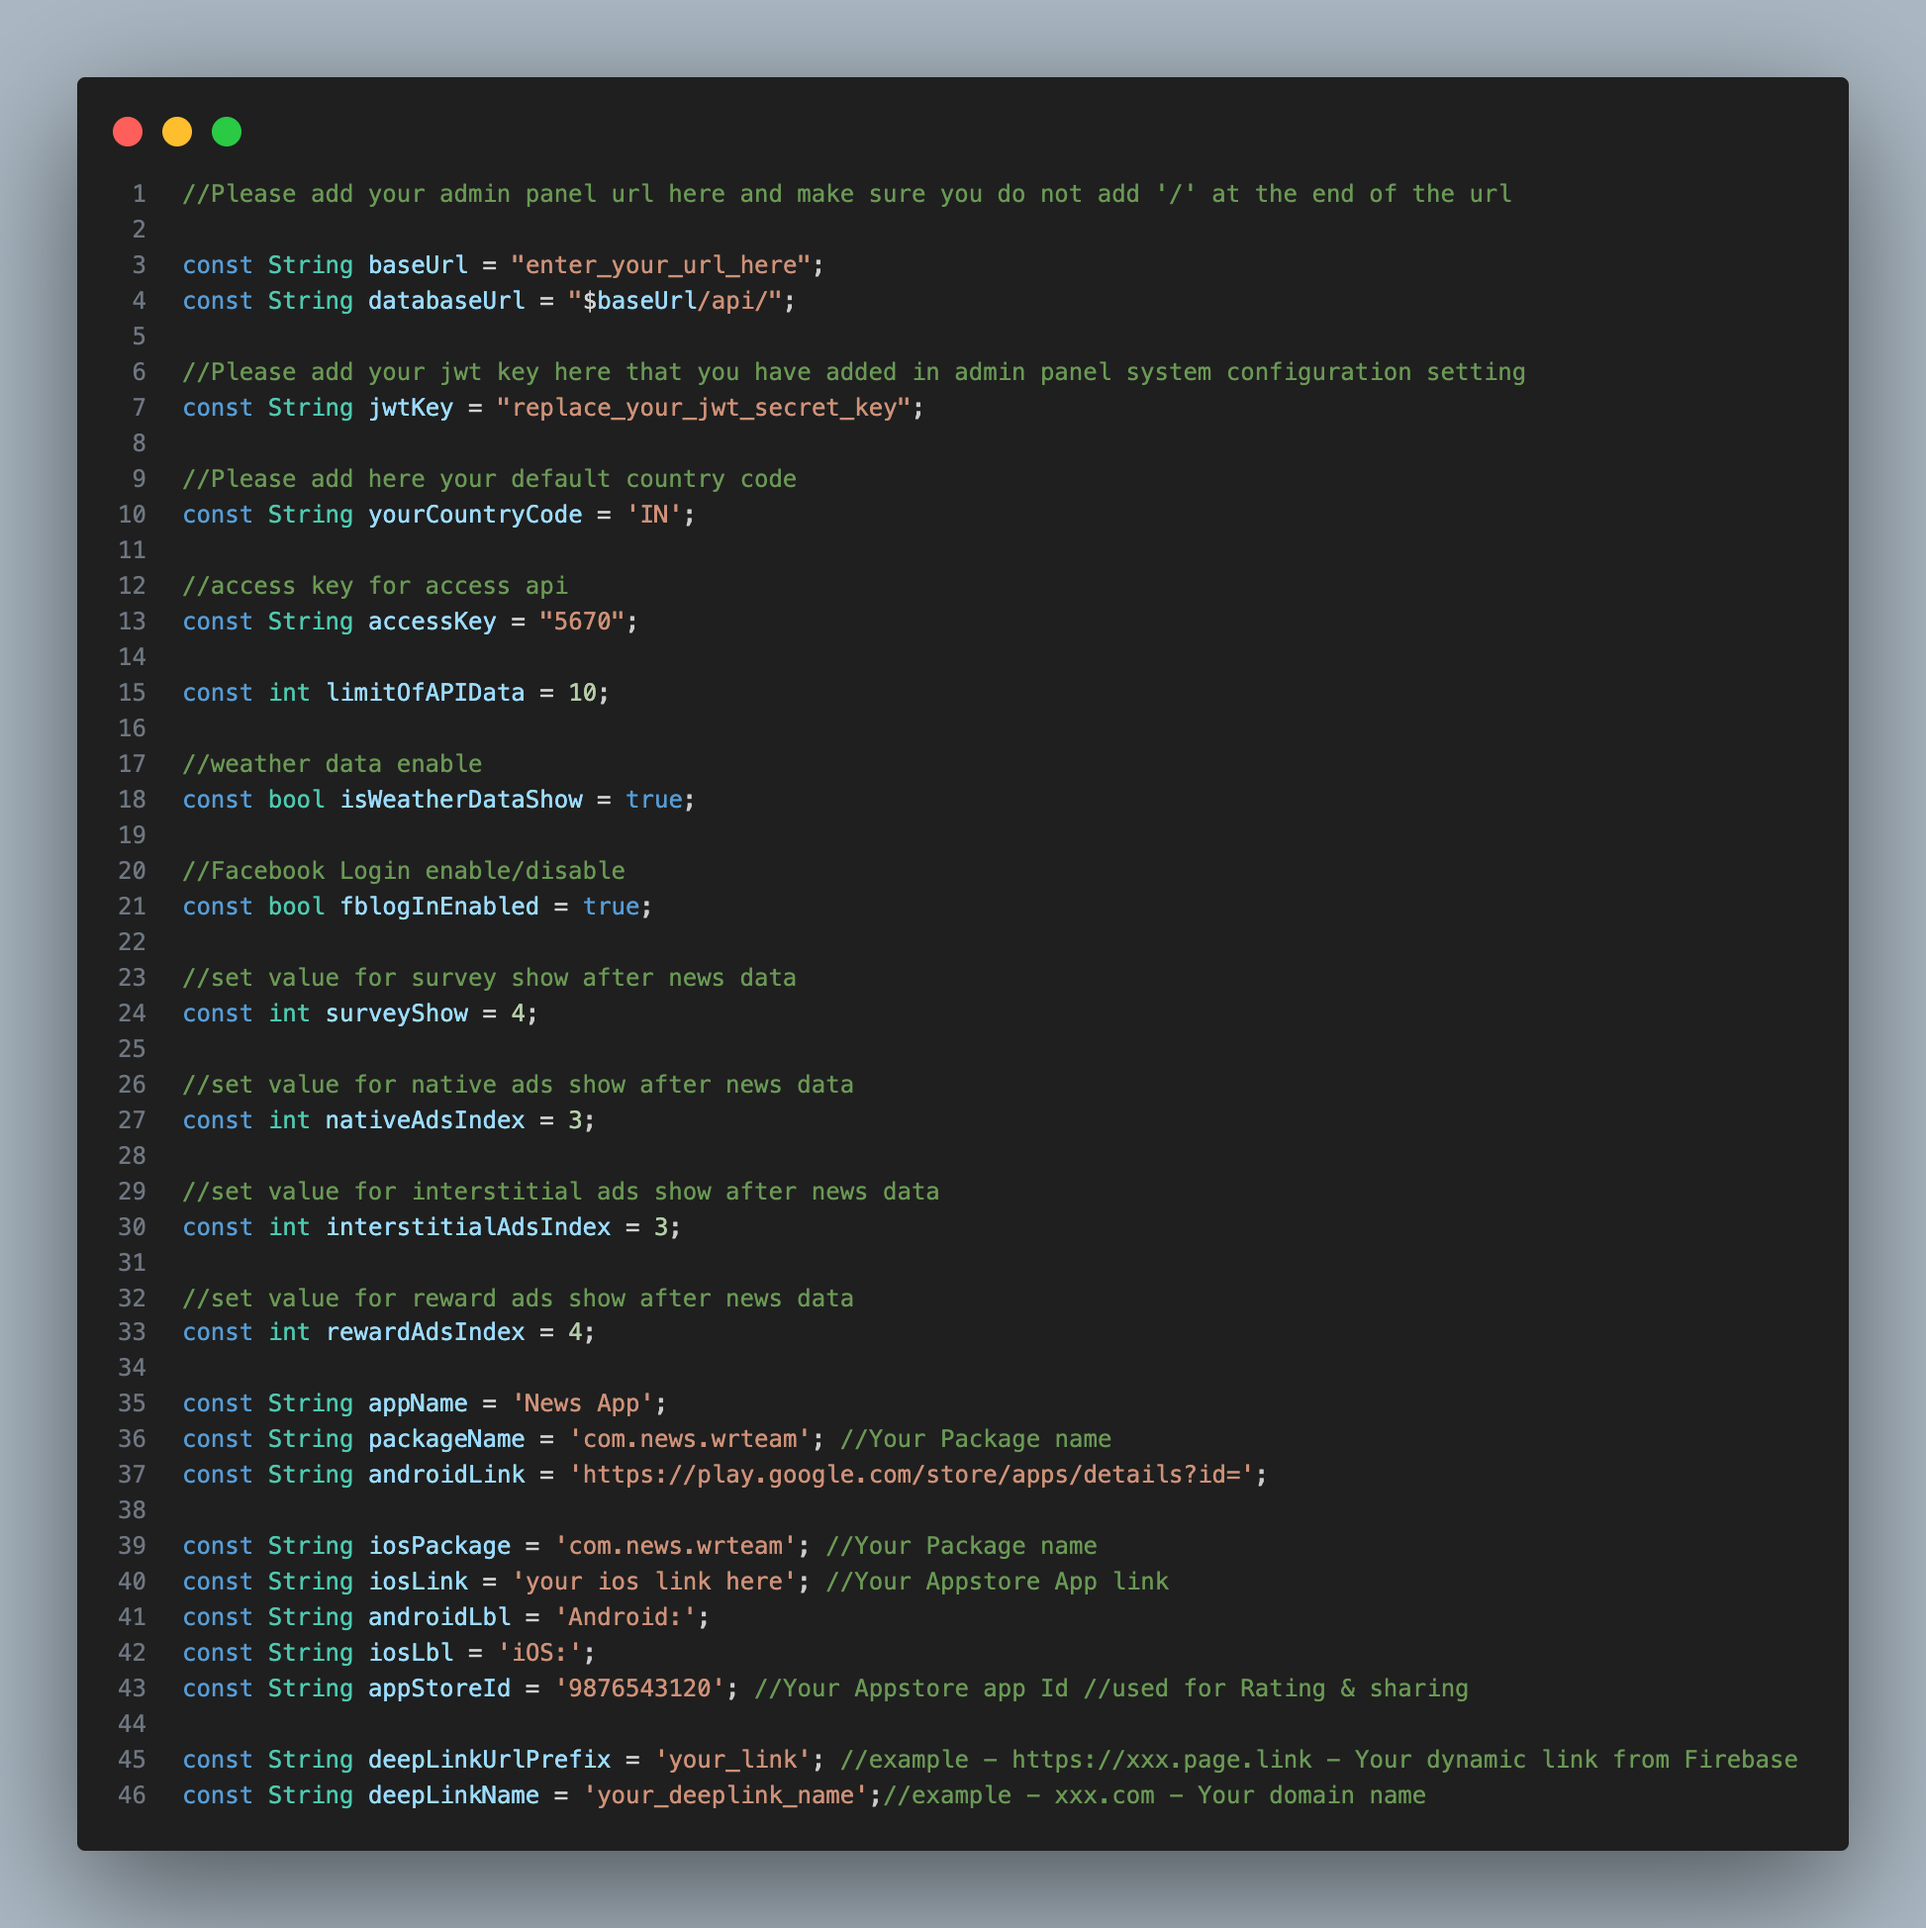
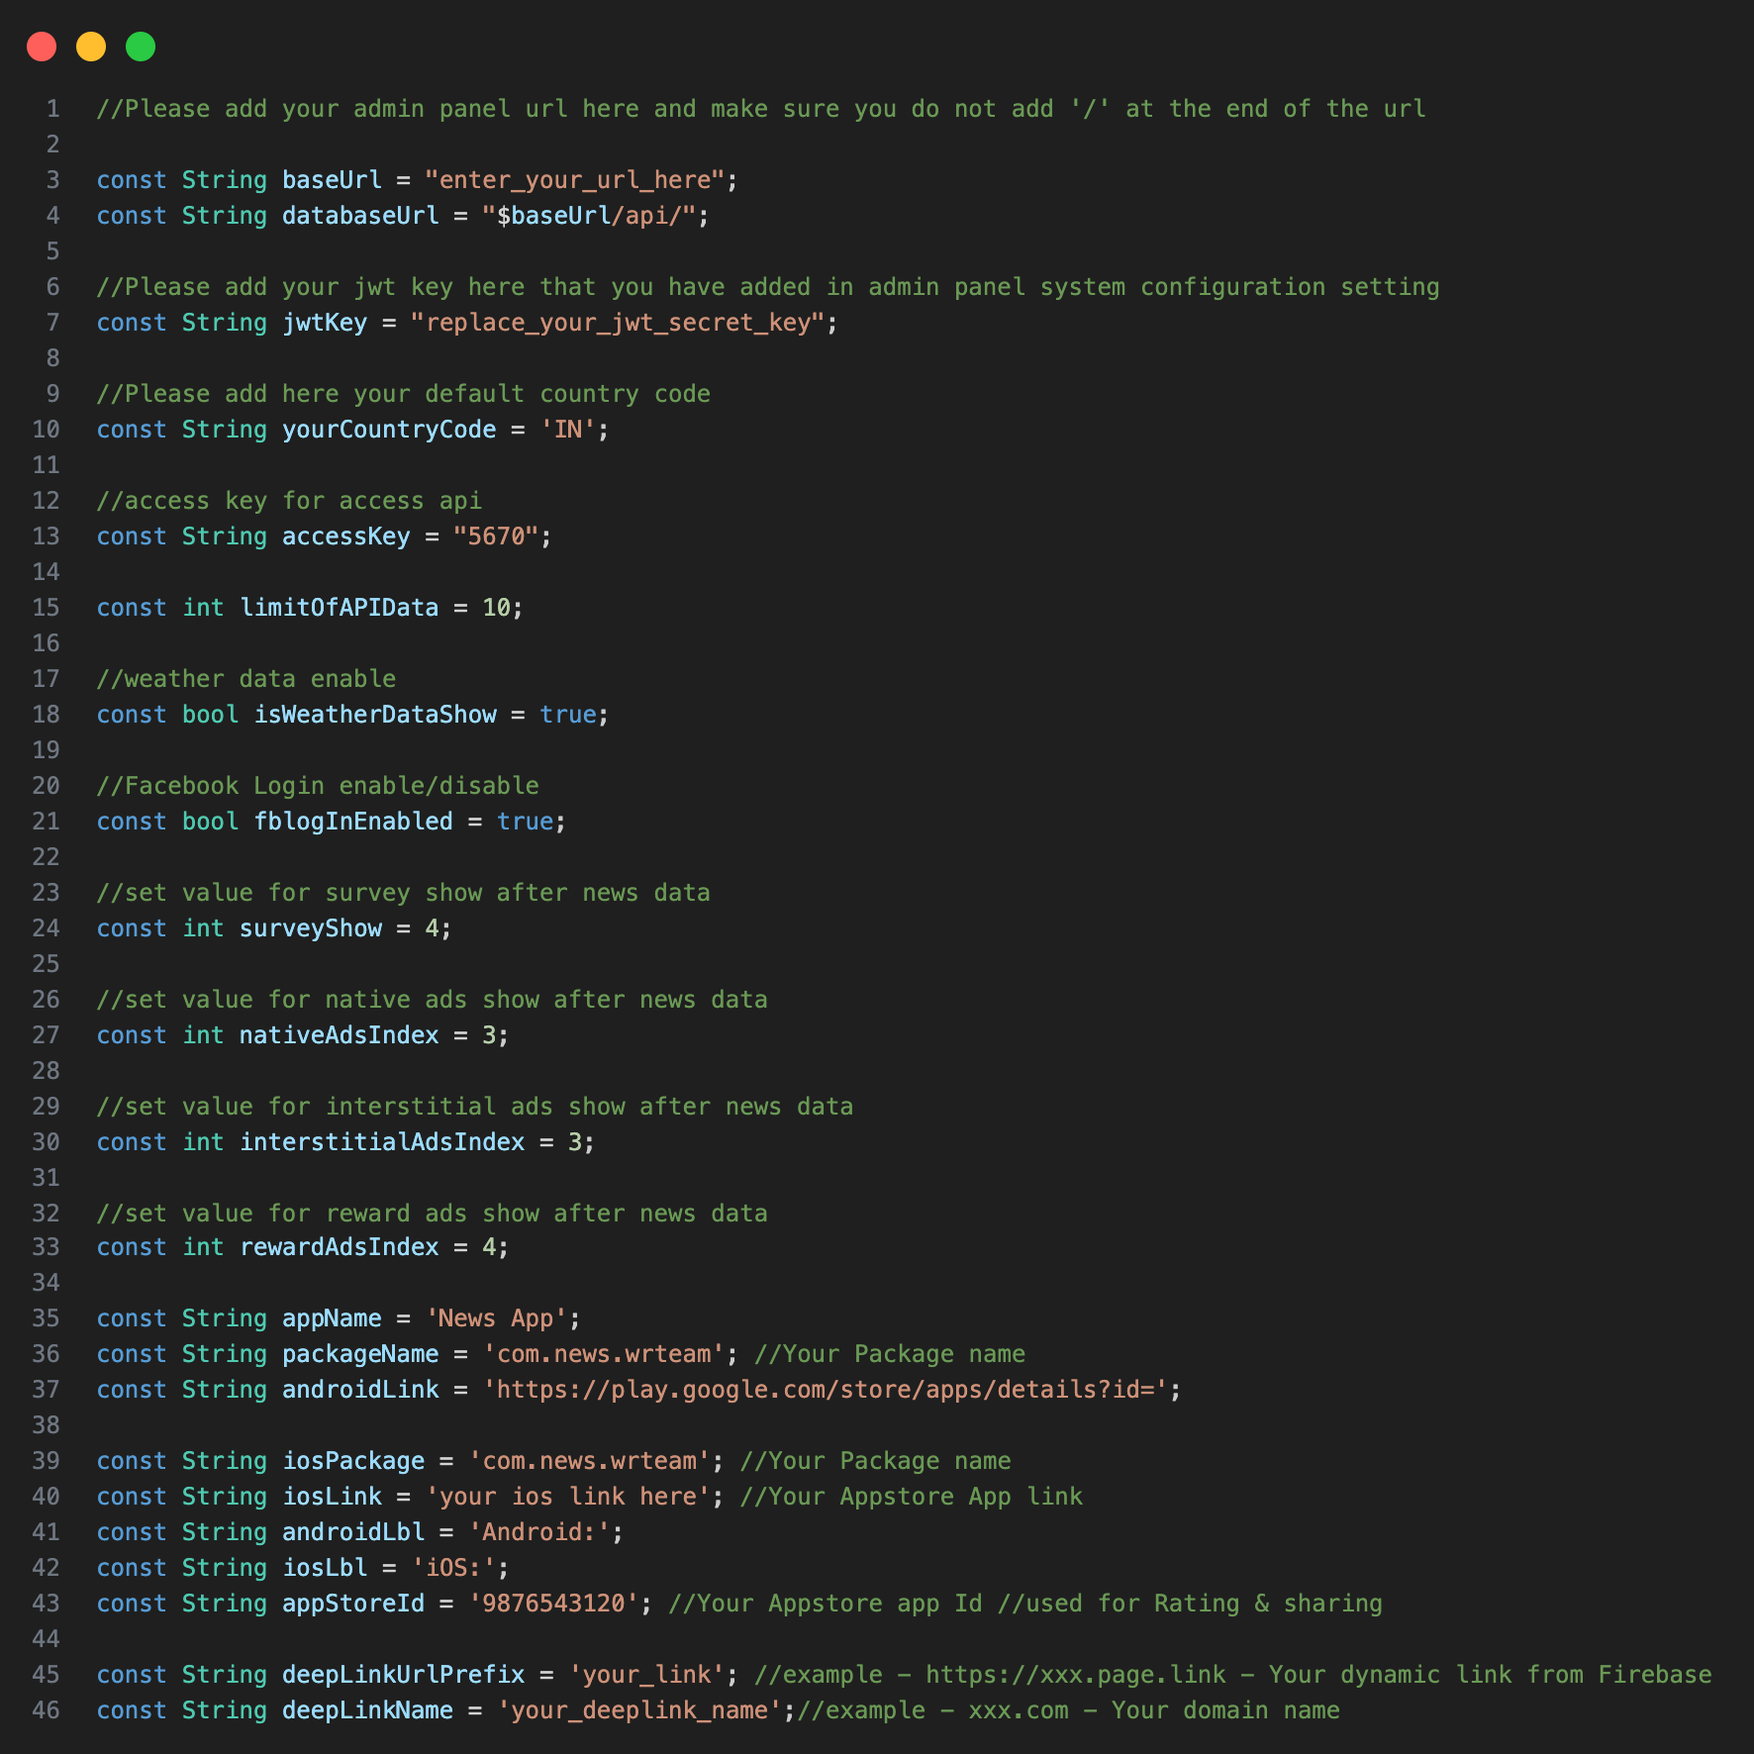
added youtube url for data safety rejection issue @Playstore,cropped codeSnaps,
added explanation for update zip & survey questions @admin panel,
added jdk & java_home steps link for app,
updated limit answer text,
added signingConfig release note.

diff --git a/index.html b/index.html
@@ -69,6 +69,7 @@
                                 <li class="nav-item"><a class="nav-link" href="#other_pages">Set Other Pages</a></li>
                                 <li class="nav-item"><a class="nav-link" href="#ad_spaces">Set Ad Spaces</a></li>
                                 <li class="nav-item"><a class="nav-link" href="#addManage_roles">Add & Assign Roles to Users</a></li>
+                                <li class="nav-item"><a class="nav-link" href="#survey">Set Survey Questions</a></li>
                                 <li class="nav-item"><a class="nav-link" href="#forgot_password">Forgot Password for Admin</a></li>
                                 <li class="nav-item"><a class="nav-link" href="#update_system">Update System</a></li>
                             </ul>
@@ -102,6 +103,7 @@
                                 <li class="nav-item"><a class="nav-link" href='#change_lang'>How to Change Language?</a></li>
                                 <li class="nav-item"><a class="nav-link" href='#apk'>How to Generate Release APK?</a></li>
                                 <li class="nav-item"><a class="nav-link" href='#apk-iOS'>How to Publish iOS App to App Store</a></li>
+                                <li class="nav-item"><a class="nav-link" href='#playstore_datasafety'>How to Solve Data safety issue in Playstore?</a></li>
 
                             </ul>
                         </li>
@@ -263,8 +265,16 @@
                                 <img src="images/panel/assignRoles.png"/>
                                 <hr>
                             </section>
+
+                            <section id="survey">
+                                <h4>Survey Questions</h4>
+                                <p>Create and manage Survey Questions for app.</p>
+                                <p>These Survey Question & Answers visible in App In between @ Category > List Of All / Subcategory Wise News.</p>
+                                <img src="images/panel/survey_questions.png"/>
+                                <hr>
+                            </section>
                 
-                        <section id="forgot_password">
+                             <section id="forgot_password">
                                 <h4>Forgot Password for Admin</h4>
                                 <p>Please add the Email SMTP details in the Settings/System Configurations to enable password reset functionality in case the admin forgets their password.</p>
                                 <img src="images/panel/forgot_password.png"/>
@@ -276,7 +286,8 @@
                                 <h4>Update System</h4>
                                 <p>Update system with latest version by uploading zip file.</p>
                                 <img src="images/panel/update_system.png"/>
-                                <p>Get update zip files in Update folder.</p>
+                                <p>browse zip files from <b>Update</b> folder of Source code provided.</p>
+                                <p>NOTE: update version sequence wise. i.e. 3.0.5 to 3.0.6 & then 3.0.6 to 3.0.7, not direct update from 3.0.5 to 3.0.7</p>
                                 <img src="images/panel/select_zip.png"/>
                                 <hr>
                             </section>
@@ -455,6 +466,7 @@
                                     <li>after that below given screen will appear, in that you have to enter your packagename and appname and then click register app.
                                         <img src="images/app/create4.png" alt="news" />
                                     </li>
+                                    <li>Download & Install JDK x64 Installer from <a href="https://www.oracle.com/in/java/technologies/downloads/">here</a> & set JAVA_HOME for Windows from <a href="https://confluence.atlassian.com/doc/setting-the-java_home-variable-in-windows-8895.html">here</a> if you haven't yet.</li>
                                     <li>click on android > gradlew in right click on open in Terminal image shown in below.
                                         <img src="images/app/sha1.png">
                                     </li>
@@ -845,7 +857,7 @@
                                     <li>Please check below given image.
                                         <img src="images/app/limit.png">
                                     </li>
-                                    <li>& It is extended for some APIs like - categoryCubit.dart, bookmarkCubit.dart, LikeAndDislikeCubit.dart, bookmarkCubit.dart.</li>
+                                    <li>& It is extended for some APIs like - categoryCubit.dart, bookmarkCubit.dart, LikeAndDislikeCubit.dart, bookmarkCubit.dart, Search.dart.</li>
                                 </ul>
                                 <hr>
                             </section>
@@ -873,8 +885,10 @@
                            <section id="apk">
                                 <h4>Generate Release APK</h4>
                                 <ul>
-                                    <li>Before Generating apk, Change values at android > key.properties File according to your generated Key.</li>
-                                    <li>In you android studio, right click on you android module of you flutter project.there is option flutter, click on that inside open in new module.then generate release apk from that new module.
+                                    <li>Before Generating apk, Change values at android > <b>key.properties</b> File according to your generated Key.</li>
+                                    <li>And also change singingConfig from debug to release in android > app > build.gradle File as shown below.</li>
+                                    <img src="images/app/signingConfig.png" alt="news" />
+                                    <li>In your android studio, right click on you android module of you flutter project.there is option flutter, click on that inside open in new module.then generate release apk from that new module.
                                         <img src="images/app/apk1.png" alt="news" />
                                     </li>
                                     <li>and if in your android studio if flutter option is disable then go to file option in your android studio inside open then locate your flutter project's android module and open it.now generate relase apk from that new module.
@@ -884,6 +898,7 @@
                                     <li>In Build menu there is option generate signed bundle/apk.
                                         <img src="images/app/apk4.png" alt="news"/>
                                     </li>
+                                    <li>For Further Help, Follow this <a href="https://developer.android.com/studio/publish/app-signing#generate-key" style="color:blue">Link</a> </li>
                                 </ul>
                                 <hr>
                             </section>
@@ -909,6 +924,16 @@
                                 </ul>
                                 <hr>
                             </section>
+
+                            <section id="playstore_datasafety">
+                            <h4>How to Solve Data safety issue in Playstore?</h4>
+                            <li>Find Video Solution <a href="https://www.youtube.com/watch?v=f8rjX7_QL44" style="color:blue">here</a>
+                            </li>   
+                            </section>
+                            <hr>
+                        </section>
+
+
 
                             <hr class="divider">
                             <section id="news_web_app">
